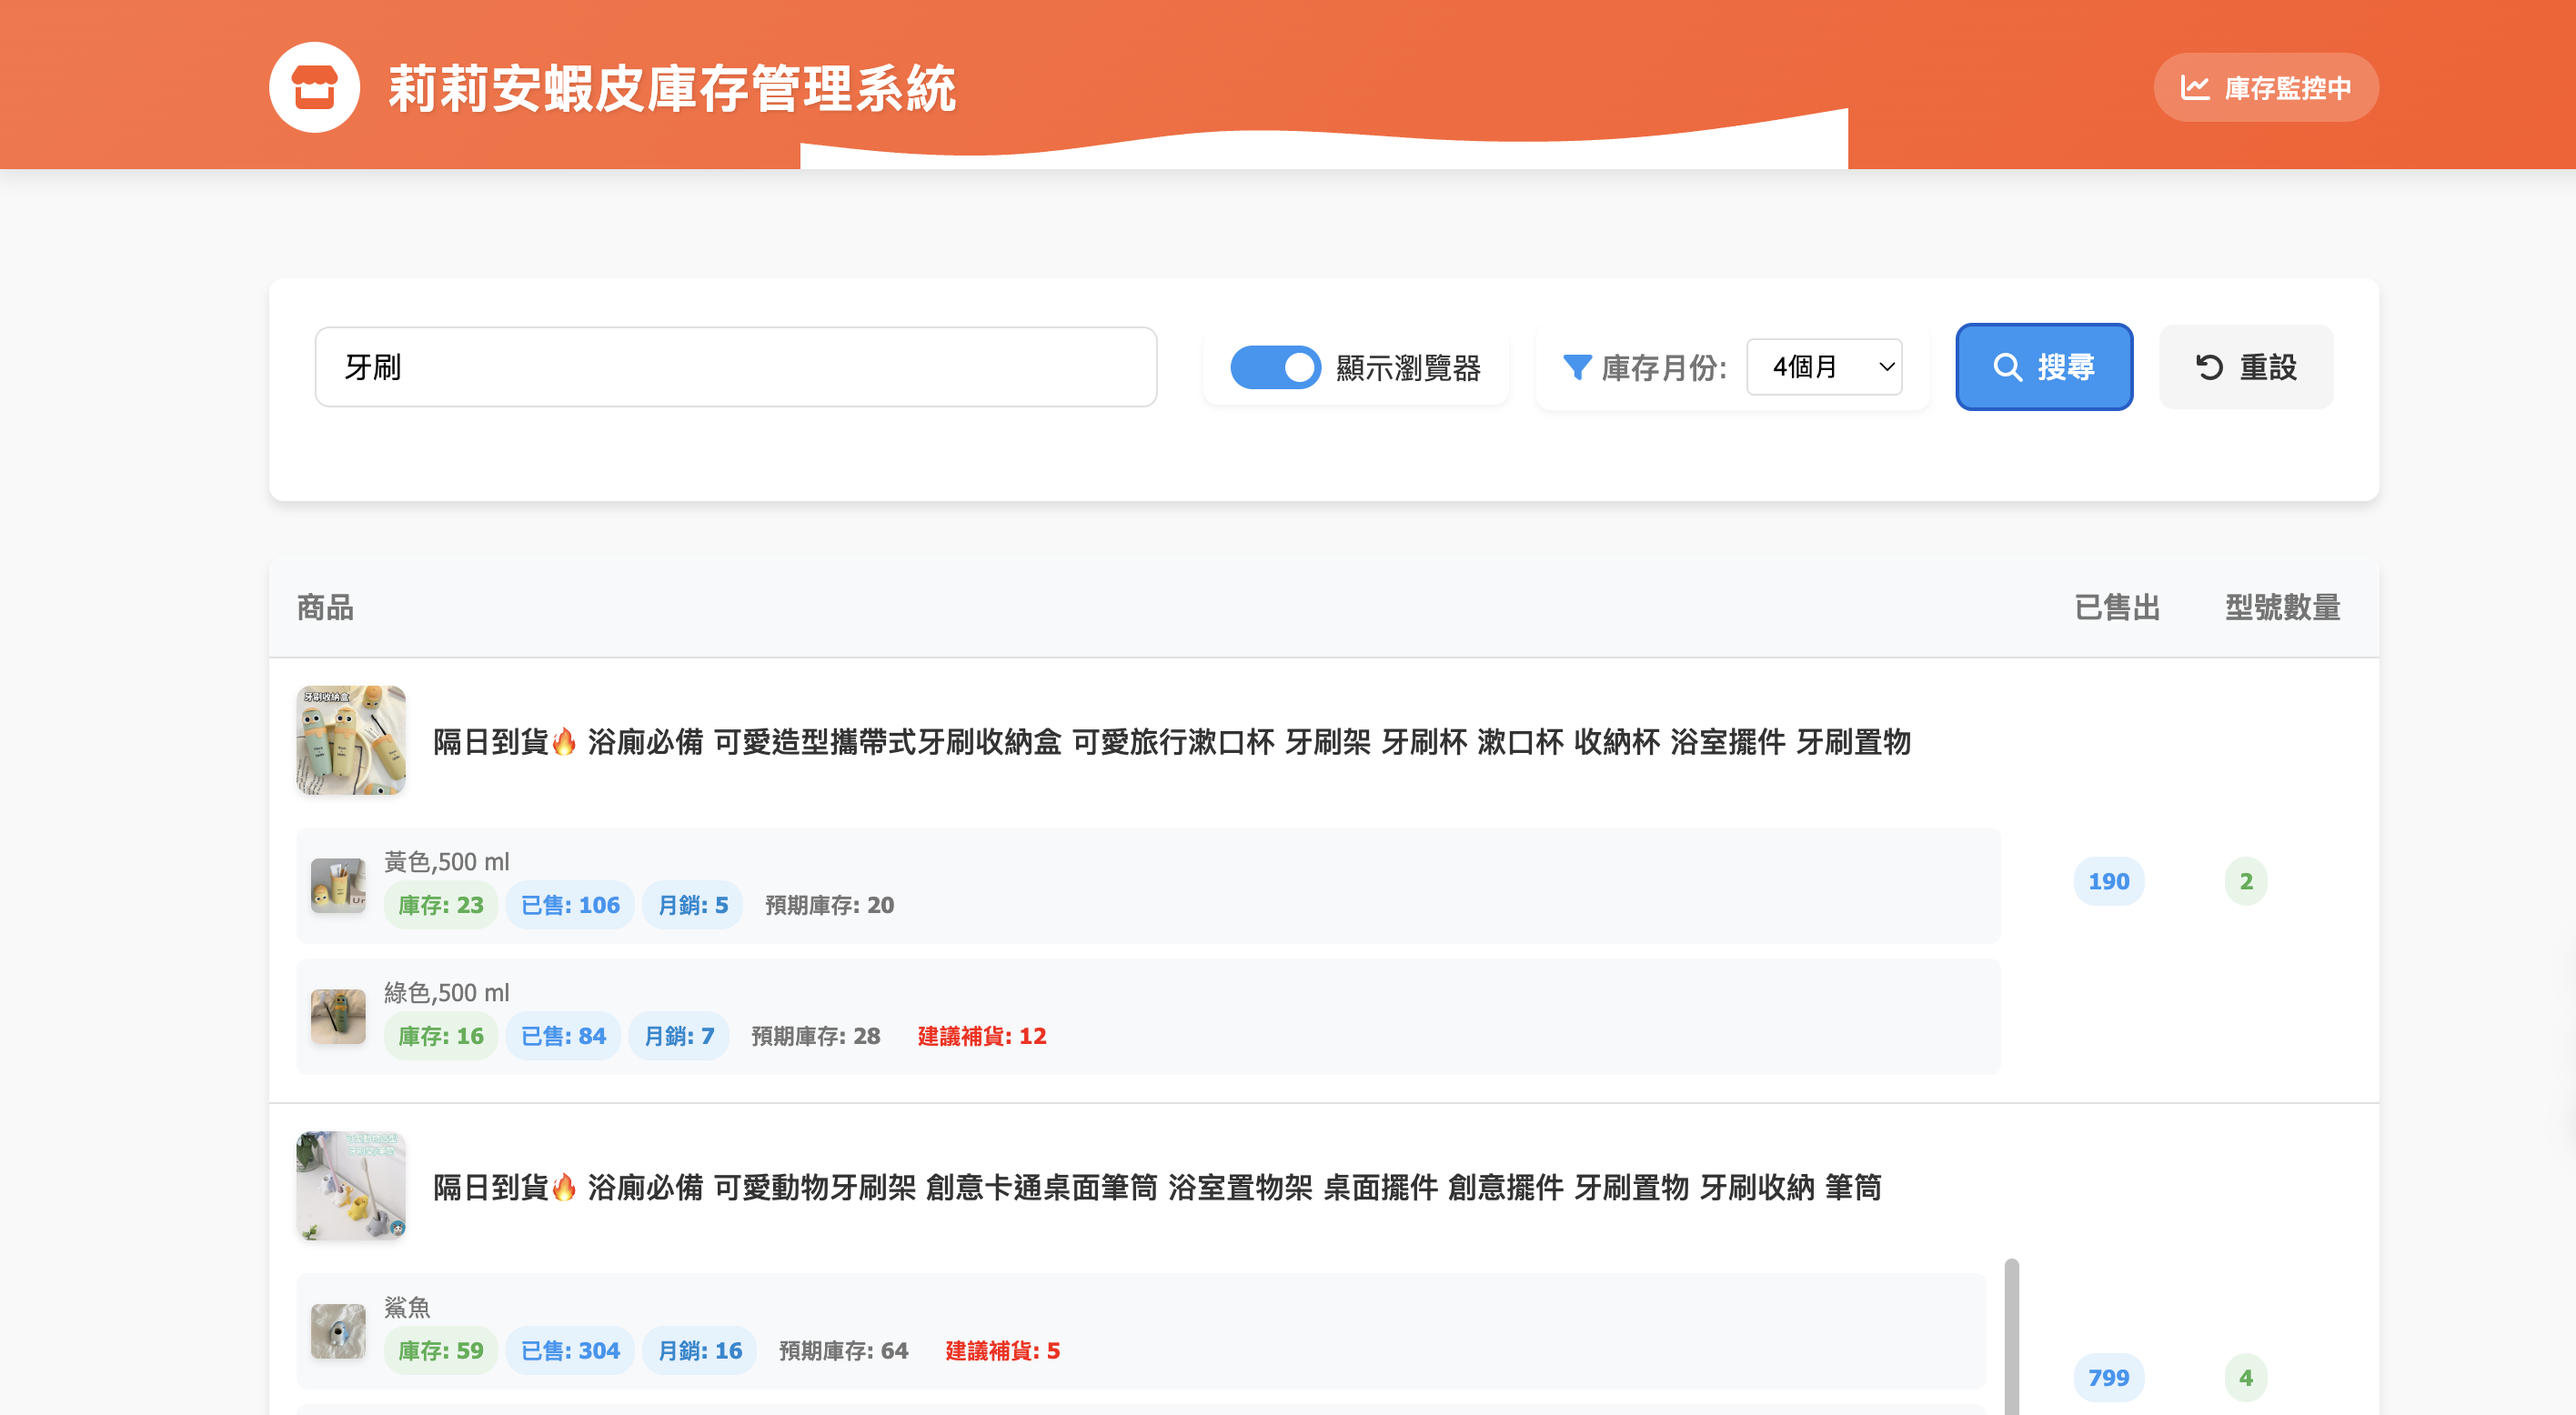
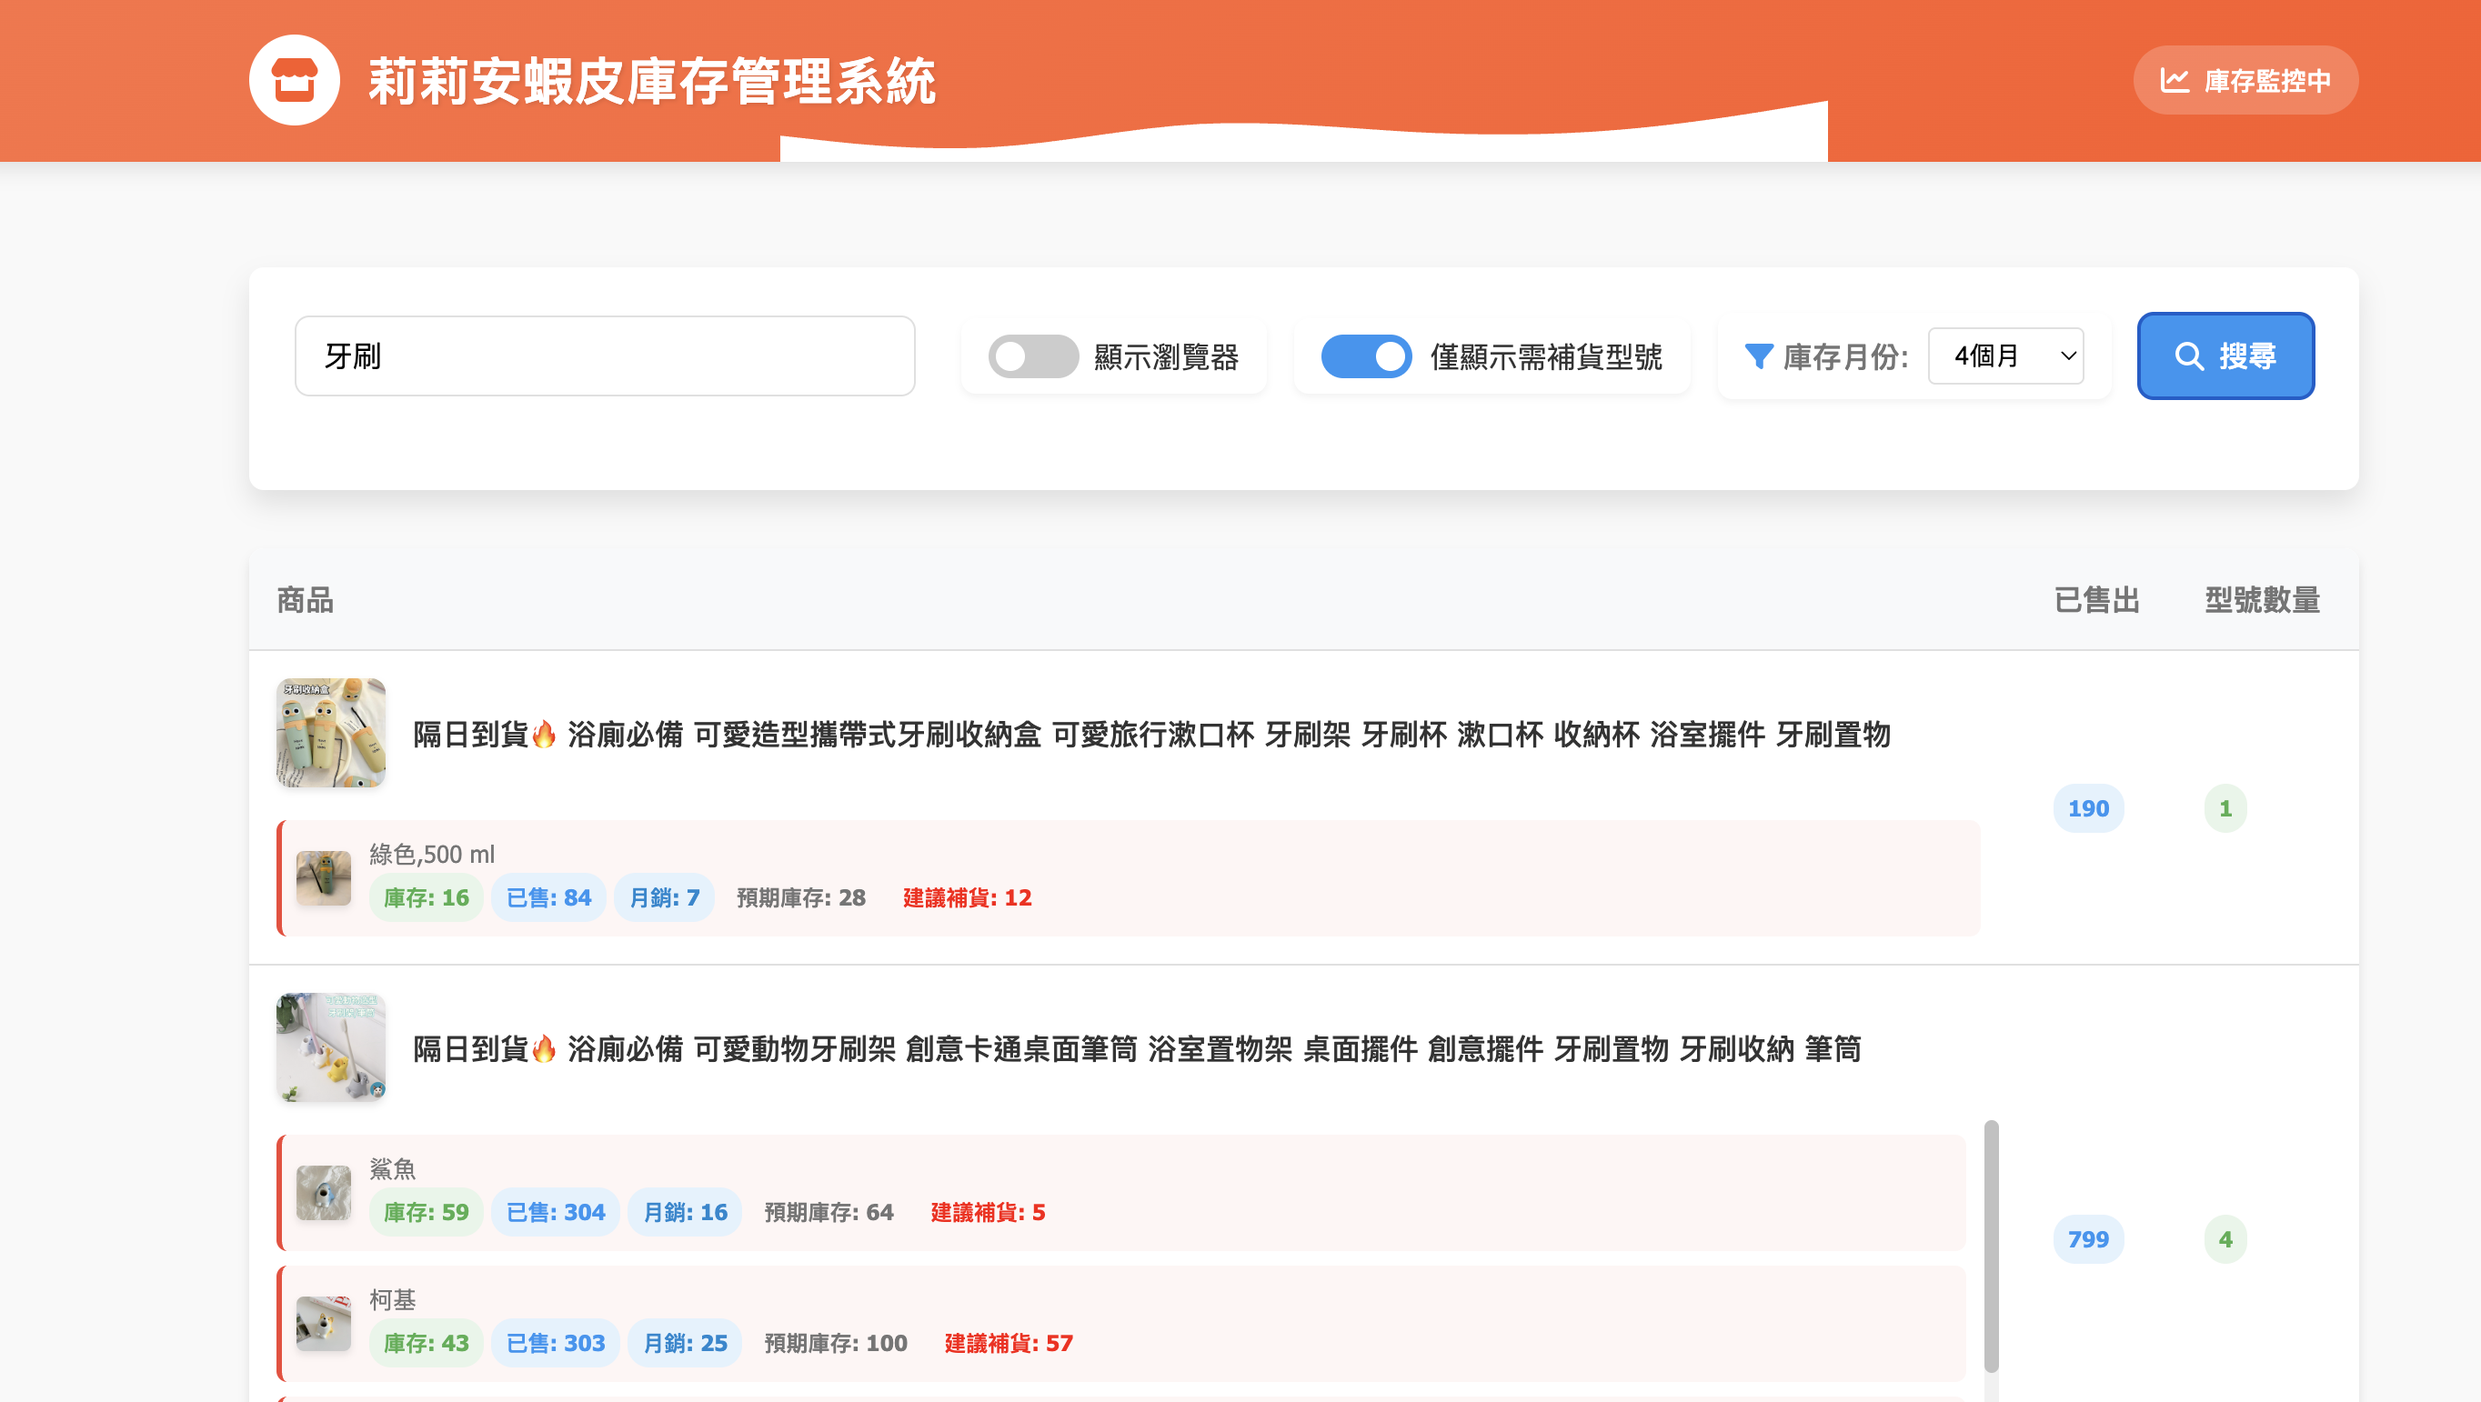
remove reset button

diff --git a/index.html b/index.html
@@ -42,6 +42,13 @@
                     <span>顯示瀏覽器</span>
                 </div>
                 <div class="filter-option">
+                    <label class="toggle-switch">
+                        <input type="checkbox" id="filterMode">
+                        <span class="toggle-slider"></span>
+                    </label>
+                    <span>僅顯示需補貨型號</span>
+                </div>
+                <div class="filter-option">
                     <label for="inventoryMonth"><i class="fas fa-filter"></i> 庫存月份:</label>
                     <select id="inventoryMonth">
                         <option value="1">1個月</option>
@@ -56,20 +63,9 @@
                         <option value="10">10個月</option>
                     </select>
                 </div>
-                <div class="filter-option">
-                    <label class="toggle-switch">
-                        <input type="checkbox" id="filterMode">
-                        <span class="toggle-slider"></span>
-                    </label>
-                    <span>僅顯示需補貨型號</span>
-                </div>
                 <button id="searchButton" class="btn-primary">
                     <i class="fas fa-search"></i>
                     搜尋
-                </button>
-                <button id="resetButton" class="btn-secondary">
-                    <i class="fas fa-undo"></i>
-                    重設
                 </button>
             </div>
         </div>

diff --git a/script.js b/script.js
@@ -384,25 +384,7 @@ document.addEventListener('DOMContentLoaded', function() {
         }
     }
     
-    // 綁定重設按鈕點擊事件
-    if (resetButton) {
-        console.log('綁定重設按鈕點擊事件');
-        resetButton.addEventListener('click', function(event) {
-            event.preventDefault(); // 防止表單提交
-            console.log('重設按鈕被點擊');
-            if (searchInput) searchInput.value = '';
-            const inventoryMonthElement = document.getElementById('inventoryMonth');
-            if (inventoryMonthElement) {
-                inventoryMonthElement.value = '4'; // 重設庫存月份為預設值
-            }
-            if (productList) productList.innerHTML = '';
-            
-            // 如果爬蟲正在運行，則中斷爬蟲
-            if (crawlerRunning) {
-                stopCrawler();
-            }
-        });
-    }
+    // 重設按鈕相關代碼已移除
     
     // 添加頁面關閉事件
     window.addEventListener('beforeunload', function() {
